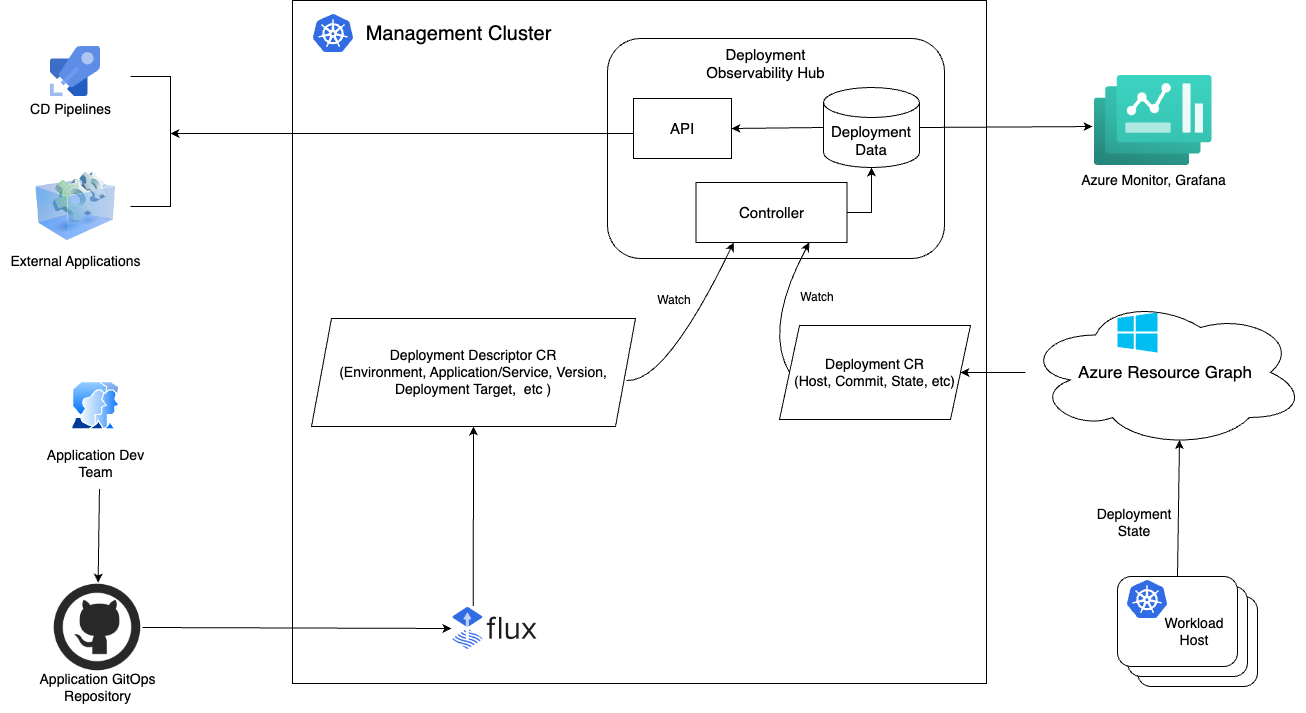
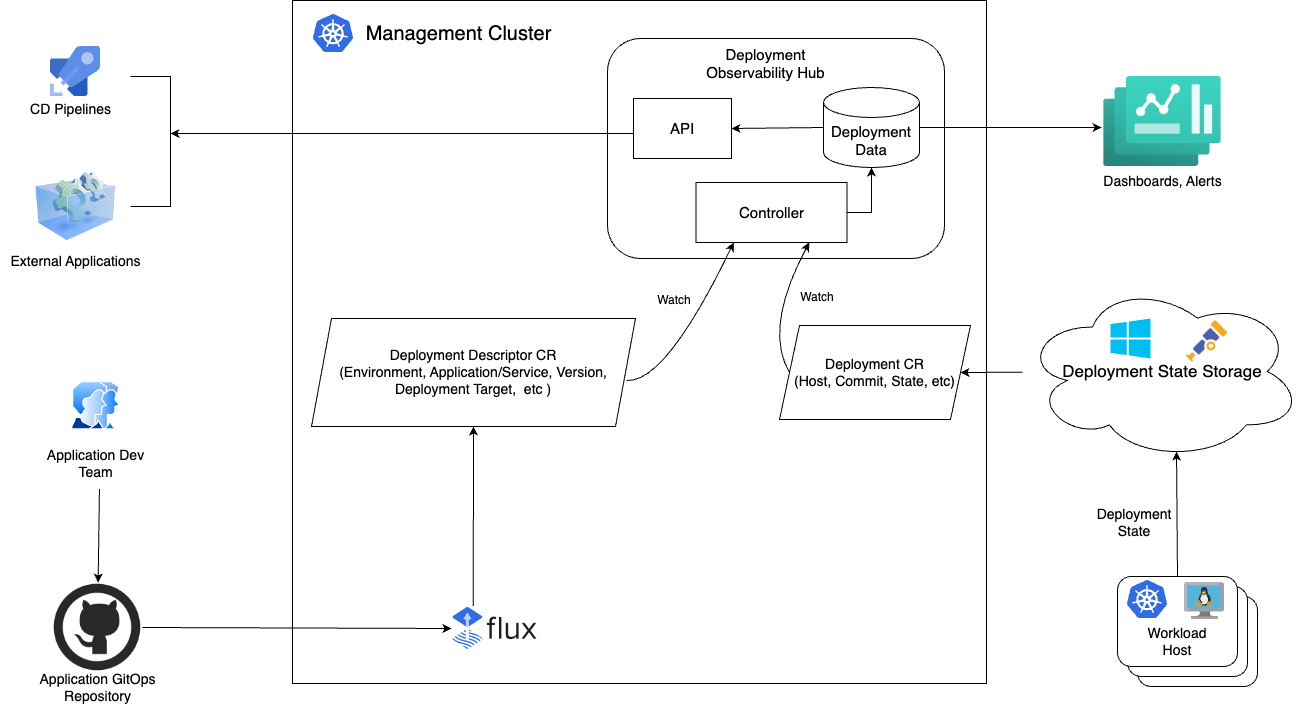
updates

diff --git a/README.md b/README.md
@@ -30,6 +30,8 @@ At high level Deployment Observability Hub consists of `storage`, `API` and `con
 Storage is a database containing the deployment observability data. The data can serve as a datasource for the tools, such as Grafana. 
 There is not any requirements regarding the exact database implementation. In this implementation, PostgreSQL has been selected. 
 
+The nature of the data to be stored (see the [data model](./docs/images/DeploymentObservabilityLogicalModel.png)) is relational, representing the state of the environemnts. It's not a time series data. The [reports}(./docs/images/DeploymentObservabilityReports.png), that we are targeting to build, are based on correlation of many different entities. Storing this data in a time series database would hardly make sense and querying it with query languages like PromQL would be very hard and cumbersome. With that said, a relational database will make a good fit to store and query the deployment observability hub data.
+
 #### API
 
 External systems, for example GitHub CD workflows, may query the deployment observability hub regarding the state of the rollout. They communicate with the hub via API, exposed with OpenAPI.
@@ -57,9 +59,15 @@ The deployment descriptors are delivered to the observability hub K8s cluster fr
 
 #### Real deployment state
 
-The facts of actual deployment are coming from the hosts. For example, Azure Arc GitOps extension, installed on the hosts, reports to Azure Resource Graph the compliance status with the GitOps repositories. It reports what GitOps commit has been deployed to a host, when and in what status. This deployment state data is pulled from ARG to the observability hub and watched by the observability hub controller. 
+The facts of actual deployment are coming from the hosts. The reconcilers on the clusters report to the deployment state storage the compliance status with the GitOps repositories. They report what GitOps commit has been deployed to a host, when and in what status. This deployment state data is pulled to the observability hub and watched by the observability hub controller. 
 
-Depending on the host platform and the reconciler implementation, the delivery channel of the deployment state data to the observability hub may vary. It can be implemented on top of Azure Arc GitOps extensions and ARG, as described above for the Azure Arc enabled K8s clusters; it can be built on top of OpenTelemetry protocol with a setup of Otel Collectors on the host and the observability hub; it can use custom agents, running on the hosts and submitting deployment state directly to the observability hub; or it can be a combination of those approaches. 
+Depending on the host platform and the reconciler implementation, the delivery channel of the deployment state data to the deployment state storage, nature of the deployment state storage and the path to the deployment observability hub may vary. To name just a few options:
+
+ - Azure Arc GitOPs extension, installed on the workload K8s cluster, reports the deployment state to Azure Resource Graph (ARG). In this case ARG is the deployment state storage. The observability hub controller polls ARG and delivers the deployment state data to the observability hub.
+ - Flux exposes Prometheus metrics with the deployment state data, which is delivered to Azure Monitor with any [preferred channel](https://learn.microsoft.com/en-us/azure/azure-monitor/essentials/prometheus-metrics-overview). With this option, Azure Monitor metrics database is the deployment state storage. The observability hub controller polls Azure Monitor and delivers the deployment state data to the observability hub to store it in normalized form.
+ - Custom agents on the K8s clusters and VMs report deployment state directly to the observability hub by submitting the deployment custom resource on the observability hub cluster. In this case the deployment state storage is bypassed. The observability hub controller watches the deployment custom resources and updates tables in the database accordingly.   
+ - Custom agents on the K8s clusters and VMs deliver the deployment state data on top of OpenTelemetry protocol with a setup of Otel Collectors on the host and the observability hub side. This is the most flexible option that addresses challenges with the network hierarchy, restricted connections, semi-connected clusters and multi-cloud systems. It is also a very robust solution which allows to distribute deployment state data across multiple backends without introducing any heavy dependencies. With this approach, the deployment observability hub is just one of backends receiving the deployment state data.
+ - Combination of the options above            
 
 At this point the observability hub implementation is focused on K8s clusters with Azure Arc GitOps extension installed. The observability hub controller provides out-of-the-box functionality to pull deployment state from the Azure Resource Graph.
 
